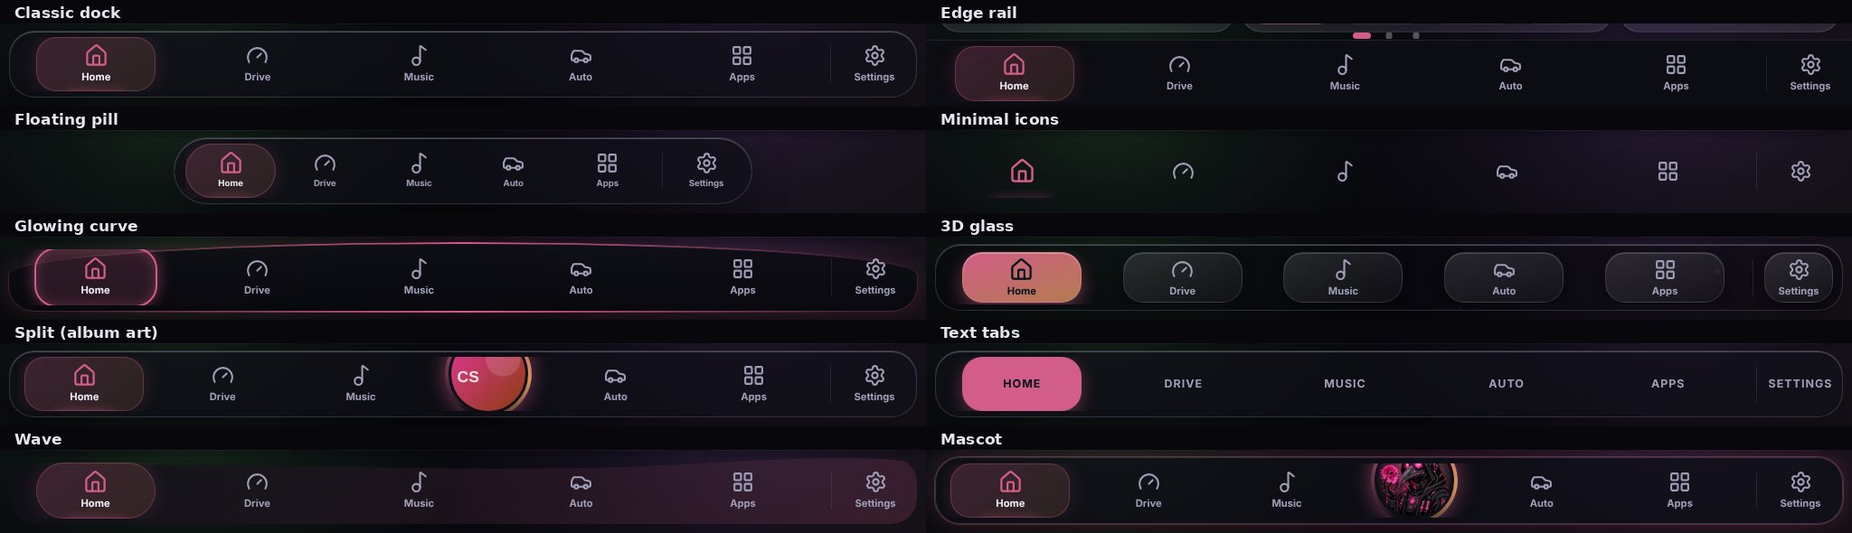
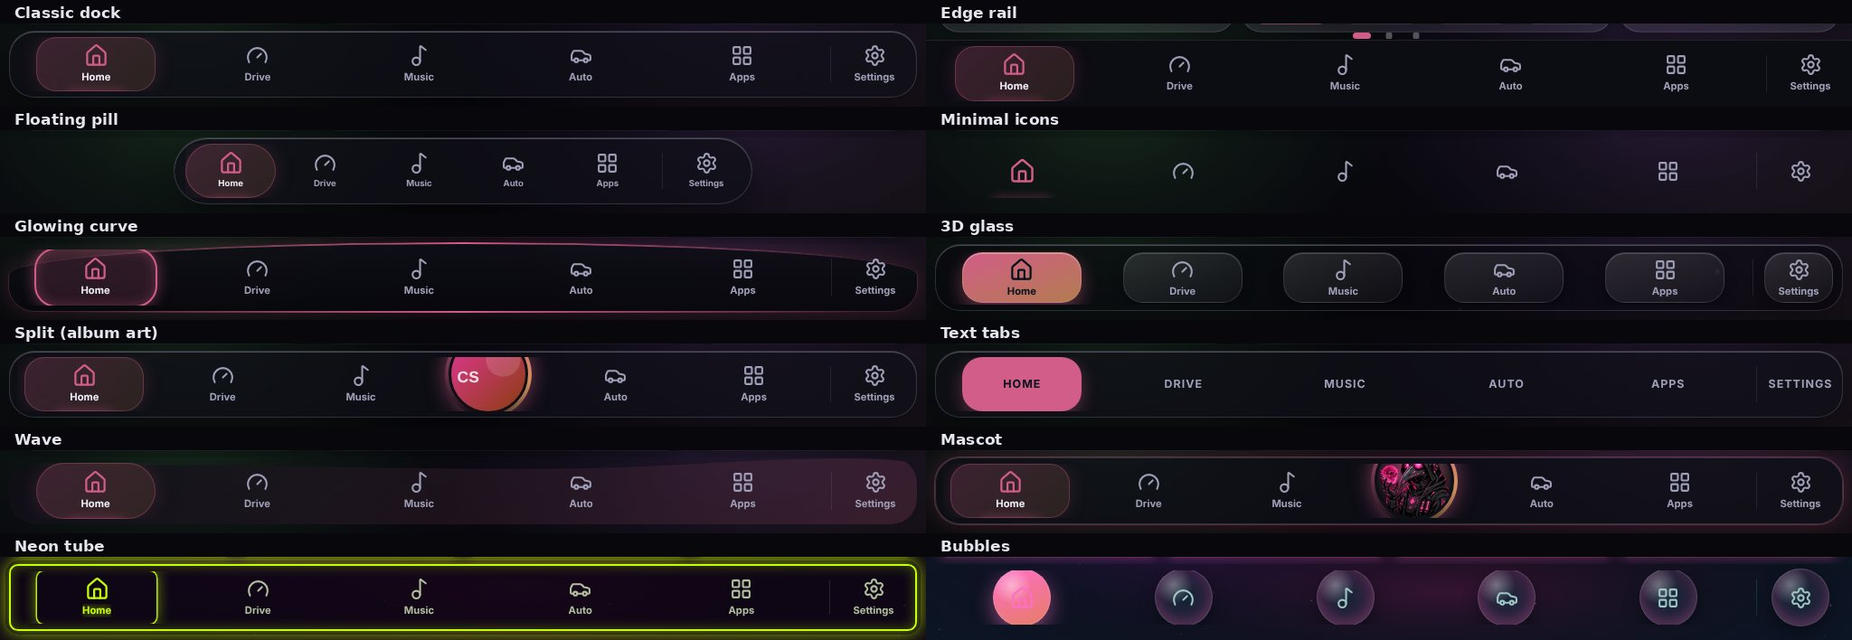
Release 3.1.0: document the new styles, animations and features
The themes, motion, navigation, mascot and Car Lab guides describe every
3.1 option by its real name, with screenshots: the six featured design
styles, the scenes, wallpapers, card styles, gauges, standby clocks,
album styles, all twelve navigation bars, My looks and the new widgets.
The README counts are brought up to date and the changelog has a 3.1.0
entry.

Two polish fixes from the screenshot pass: text tabs on a side bar no
longer cut off "SETTINGS", and the cyber-alley wallpaper's neon signs
are drawn as lit signs rather than empty outlines, which looked like a
selected button through see-through cards. The storm's lightning is
also slowed to a few soft flickers a minute.

Claude-Session: https://claude.ai/code/session_019dJ3Z7UJMVTEGixkWF7xnh

diff --git a/apps/ui/src/lib/wallpapers.ts b/apps/ui/src/lib/wallpapers.ts
@@ -169,9 +169,18 @@ function jelly(x: number, y: number, s: number, colour: string): string {
   return out;
 }
 
-/** A neon sign with a glow: a wide faint stroke under a thin bright one. */
+/**
+ * A lit neon sign: a soft glow, a filled panel and bright strokes inside that read as lettering (never an empty outline, which would
+ * look like a selected button through a see-through card).
+ */
 function neonRect(x: number, y: number, w: number, h: number, colour: string): string {
-  return `<rect x="${x}" y="${y}" width="${w}" height="${h}" rx="6" fill="none" stroke="${colour}" stroke-width="16" opacity="0.18"/>` + `<rect x="${x}" y="${y}" width="${w}" height="${h}" rx="6" fill="none" stroke="${colour}" stroke-width="4" opacity="0.95"/>`;
+  const vertical = h > w;
+  const strokes = Array.from({ length: 3 }, (_, i) =>
+    vertical
+      ? `<rect x="${r1(x + w * 0.3)}" y="${r1(y + h * (0.12 + i * 0.29))}" width="${r1(w * 0.4)}" height="${r1(h * 0.18)}" rx="3" fill="${colour}" opacity="0.95"/>`
+      : `<rect x="${r1(x + w * (0.08 + i * 0.3))}" y="${r1(y + h * 0.3)}" width="${r1(w * 0.24)}" height="${r1(h * 0.4)}" rx="3" fill="${colour}" opacity="0.95"/>`,
+  ).join('');
+  return `<rect x="${x - 14}" y="${y - 14}" width="${w + 28}" height="${h + 28}" rx="18" fill="${colour}" opacity="0.1"/>` + `<rect x="${x}" y="${y}" width="${w}" height="${h}" rx="6" fill="${colour}" opacity="0.22"/>` + strokes;
 }
 
 /** A neon perspective grid floor from the horizon at `y` down to the bottom. */

diff --git a/apps/ui/src/layers/Scene.tsx b/apps/ui/src/layers/Scene.tsx
@@ -181,7 +181,7 @@ function sceneBody(scene: DashScene, k: number): ReactNode {
           <i className="sc-cloud b" />
           <i className="sc-flash" />
           {[0, 1, 2].map((i) => (
-            <i key={i} className="sc-bolt" style={{ ['--x' as string]: `${[22, 64, 82][i]}%`, ['--delay' as string]: `${[-1, -5.5, -9][i]}s`, ['--sc' as string]: [1, 0.7, 0.85][i] }} />
+            <i key={i} className="sc-bolt" style={{ ['--x' as string]: `${[22, 64, 82][i]}%`, ['--delay' as string]: `${[-1, -10, -19][i]}s`, ['--sc' as string]: [1, 0.7, 0.85][i] }} />
           ))}
           {scatter(countFor(50, k), 201, (r) => ({ '--x': `${r() * 110 - 5}%`, '--d': `${0.6 + r() * 0.4}s`, '--delay': `${-r() * 2}s`, '--l': `${24 + r() * 36}px`, '--o': 0.18 + r() * 0.3 }), 'sc-drop')}
         </>

diff --git a/apps/ui/src/styles/shell.css b/apps/ui/src/styles/shell.css
@@ -523,6 +523,11 @@ html[data-calm='true'] .dock-medal-art {
 .dock[data-look='tabs'] .dock-btn {
   min-height: 46px;
 }
+/* On a side the bar is narrow: smaller, tighter capitals so "SETTINGS" still fits. */
+.dock[data-look='tabs']:not([data-pos='bottom']) .dock-btn > span {
+  font-size: 0.62rem;
+  letter-spacing: 0.02em;
+}
 .dock[data-look='tabs'] .dock-ind {
   background: var(--accent);
   box-shadow: 0 6px 18px rgba(var(--accent-rgb), 0.4);

diff --git a/apps/ui/src/styles/layers.css b/apps/ui/src/styles/layers.css
@@ -945,7 +945,7 @@
   transform: scale(var(--sc));
   transform-origin: 50% 0;
   opacity: 0;
-  animation: sc-bolt calc(13s * var(--tempo)) linear var(--delay) infinite;
+  animation: sc-bolt calc(27s * var(--tempo)) linear var(--delay) infinite;
 }
 @keyframes sc-bolt {
   0%,

diff --git a/docs/themes.md b/docs/themes.md
@@ -14,6 +14,7 @@ combination, not a screenshot. Change any single part afterwards and the rest st
 | Kind | Looks |
 | --- | --- |
 | **Featured** (6) | Retro Synthwave · Arctic Crystal · Phantom Pink · Liquid Chrome · Stealth AMOLED · Nature Drive |
+| **Styles** (14, new in 3.1) | Neo Brutal · Holo Foil · Toxic Lab · Neon Noir · Miami Nights · Rose Gold · Deep Dive · Paper Cut · Peach Blossom · Night Highway · Storm Chaser · Campfire · Mission Control · Arcade |
 | **Signature** (25) | RootUnit · Plague Doctor · Tokyo Drift · Replicant · Digital Rain · Retro Terminal · Vaporwave · Deep Space · Nebula · Ocean Breeze · Lava Lounge · Blueprint Lab · Moonlight · Night Vision · Track Day · Gothic · Workshop · Cobalt Code · Aurora Lake · Golden Hour · First Snow · Cherry Blossom · Café · Lavender Fields · Concrete Jungle |
 | **3D scenes** (16, from v2) | Cyber Neon · Ocean Glass · Vinyl Lounge · Aurora 3D · Night Racer · AMOLED Eclipse · Sunset GT · Focus HUD · Crystal Palace · Silver Grid · Emerald Matrix · Galaxy Purple · Arctic Ice · Ruby Glass · Copper Retro · Hyperdrive |
 | **Looks** (14, from v2) | Classic · Glass Night · Album Immersion · Ambient · Neon Drive · Sunset Cruise · Forest Retreat · Ocean Deep · Racing Red · Gold Standard · Daylight Clean · Paper Glass · Sun Glare · Night Shift |
@@ -27,6 +28,41 @@ mascot motion. v2's *Liquid Chrome* scene is now called **Silver Grid**, because
 | **Retro Synthwave** with *Player focus* | **Arctic Crystal** with *Glass hub* |
 | ![Phantom Pink with Cockpit](screenshots/home-phantom.jpg) | ![Liquid Chrome with Classic](screenshots/home-chrome.jpg) |
 | **Phantom Pink** with *Cockpit* | **Liquid Chrome** with *Classic* |
+
+### Design styles (3.1)
+
+![The Styles group in Settings](screenshots/settings-styles.jpg)
+
+Each one is built around a design style and matched end to end, like the featured looks: palette, card style, background or
+wallpaper, scene, typeface, transitions, touch feedback, gauges, standby clock, navigation bar and the mascot's motion and light.
+
+| | |
+| --- | --- |
+| ![Neo Brutal](screenshots/style-neo-brutal.jpg) | ![Holo Foil](screenshots/style-holo-foil.jpg) |
+| **Neo Brutal**: newsprint, thick lines, hard red shadows, a word clock | **Holo Foil**: holographic edges over pastel waves, bubbles for a navigation bar |
+| ![Neon Noir](screenshots/style-neon-noir.jpg) | ![Deep Dive](screenshots/style-deep-dive.jpg) |
+| **Neon Noir**: a rainy alley, lit glass, an LED race dash and a neon-tube bar | **Deep Dive**: the deep sea, jellyfish light and a HUD gauge |
+| ![Toxic Lab](screenshots/style-toxic-lab.jpg) | ![Miami Nights](screenshots/style-miami-nights.jpg) |
+| **Toxic Lab**: a green-screen terminal, a radar sweep and a binary clock | **Miami Nights**: palms, a pink sunset and records in their sleeves |
+
+**Surprise me** (top of the Looks section) puts together a random look that still hangs together: it starts from a palette and that
+palette's own accent, then keeps the pairings a designer would (a terminal panel gets a mono face and square corners, clay is round,
+brutalist cards press in, light palettes skip the neon tube). Tap it again for another; save one you like under **My looks**.
+
+## My looks
+
+![My looks, with a share code open](screenshots/my-looks.jpg)
+
+Under **Settings → Looks & layouts → My looks**:
+
+* **Save this look** keeps everything about the look on screen under a name (up to 16 looks, names up to 24 characters).
+* **Use** wears a saved look again in one tap. The **My looks** widget does the same from Home.
+* **Share** shows the look as a code (`RU1.…`) with a **Copy** button. Paste it into **Add from code** on another head unit, or keep
+  it in a note. A code holds only the look: never units, music, sign-ins or anything personal. A damaged or made-up code can only ever
+  give a valid look, or nothing.
+* Naming and adding wait until you are parked; using a saved look does not.
+
+Saved looks are part of the settings, so they are in every backup.
 
 ## Home layouts
 
@@ -48,24 +84,39 @@ it, and placed behind the widgets in the space left for it otherwise. After that
 | Section | What you can choose |
 | --- | --- |
 | **Looks & layouts** | The looks and layouts above; the accent colour (8 swatches, or any colour with *Hue* and *Lightness*); *colour the interface from the album art*; **Reset the look** |
-| **Colours** | 36 palettes (below); a day palette and a night palette, switched by the clock or by the real sunrise and sunset |
-| **Cards & depth** | Card style: Solid · Glass · Outline · Neon · Clay · HUD · Chrome · Aero. Depth: Flat · Soft · Deep · Crystal · Floating · Bevel · Layered. Glass finish: Clear · Frosted · Prismatic · Iridescent · Smoked · Liquid, and how see-through it is. Corners: Sharp · Soft · Round |
-| **Background** | None · Album blur · Album cover · Ambient · Aurora · Gradient · Grid · Carbon · Wallpaper · Mesh · Stars · Hexagons · Topographic · Circuit · Dots · Waves · Synth sun · Bokeh · Scanlines; 20 built-in wallpapers and your own pictures; dim and blur; an animated scene behind the widgets (below); real weather in the scene |
-| **3D effects** | Effects level; motion intensity (Off · Calm · Lively · Cinematic); album glow, background motion and particle switches; 15 artwork styles; 8 page transitions; touch feedback (None · Ripple · Glow · Pop). See [3d-motion.md](3d-motion.md) |
-| **Type & gauges** | Typeface: Inter · System · Grotesk · Outfit · Rounded · Tech · Future · Mono; text size; gauges: Arc · Needle · Digital · Ring · Bar · Sport; standby screen: Clock · Analog · Flip · Mascot · Orbit · Minimal |
+| **Colours** | 44 palettes (below); a day palette and a night palette, switched by the clock or by the real sunrise and sunset |
+| **Cards & depth** | Card style: Solid · Glass · Outline · Neon · Clay · HUD · Chrome · Aero · Brutalist · Holographic · Terminal · Lumen. Depth: Flat · Soft · Deep · Crystal · Floating · Bevel · Layered. Glass finish: Clear · Frosted · Prismatic · Iridescent · Smoked · Liquid, and how see-through it is. Corners: Sharp · Soft · Round |
+| **Background** | None · Album blur · Album cover · Ambient · Aurora · Gradient · Grid · Carbon · Wallpaper · Mesh · Stars · Hexagons · Topographic · Circuit · Dots · Waves · Synth sun · Bokeh · Scanlines · Halftone · Low poly · Sun rays · Plasma; 26 built-in wallpapers and your own pictures; dim and blur; an animated scene behind the widgets (below); real weather in the scene |
+| **3D effects** | Effects level; motion intensity (Off · Calm · Lively · Cinematic); album glow, background motion and particle switches; 18 artwork styles; 12 page transitions; touch feedback (None · Ripple · Glow · Pop · Sparkle · Ring · 3D press). See [3d-motion.md](3d-motion.md) |
+| **Type & gauges** | Typeface: Inter · System · Grotesk · Outfit · Rounded · Tech · Future · Mono; text size; gauges: Arc · Needle · Digital · Ring · Bar · Sport · LED · HUD; standby screen: Clock · Analog · Flip · Mascot · Orbit · Minimal · Nixie · Word clock · Binary |
 | **Music reactive** | Off · Glow · Wash · Rings · Spectrum · Edges · Halo · Burst · Wave · Radial, coloured by Accent · Album · Rainbow · Custom · Heat. See [music-reactive.md](music-reactive.md) |
-| **Mascot** | Original · Neon cut-out · 3D armour; 11 motions; 5 auras. See [mascot.md](mascot.md) |
+| **Mascot** | Original · Neon cut-out · 3D armour; 13 motions; 7 auras. See [mascot.md](mascot.md) |
 | **Boot screen** | The start-up screen. See [mascot-boot.md](mascot-boot.md) |
 
-The navigation bar's ten styles and three positions are under **Settings → Navigation → Edit navigation… → Look**
+The navigation bar's twelve styles and three positions are under **Settings → Navigation → Edit navigation… → Look**
 ([navigation.md](navigation.md)).
 
 **Animated scenes:** Off · Glow · Orbits · Grid · Particles · Warp · Waves · Rain · Fireflies · Matrix · Nebula · Snow · Lava · Rings ·
-Comets · Bubbles · Tunnel · Synth sun · Circuit.
+Comets · Bubbles · Tunnel · Synth sun · Circuit · Highway · Sakura · Embers · Radar · Skyline · Storm.
+
+![The six scenes new in 3.1](screenshots/scenes-31.jpg)
 
 **Built-in wallpapers:** Night road · City lights · Mountains · Dunes · Waves · Neon city · Galaxy · Pine forest · Coast road · Canyon ·
-Tunnel · Race track · Aurora lake · Synthwave sunset · Ice peaks · Liquid chrome · Phantom smoke · Eclipse · Vinyl lounge · Sunset GT.
+Tunnel · Race track · Aurora lake · Synthwave sunset · Ice peaks · Liquid chrome · Phantom smoke · Eclipse · Vinyl lounge · Sunset GT ·
+Cherry road · Cyber alley · Miami beach · Deep sea · Holo waves · Paper hills.
+
+![The six wallpapers new in 3.1](screenshots/wallpapers-31.jpg)
+
+![The four card styles new in 3.1, each on one of the new backgrounds](screenshots/cards-31.jpg)
 They are drawn as SVG in the app, so they cost no download and stay sharp on any screen.
+
+**Gauges and standby clocks.** The **LED** gauge is a race dash: shift lights going green, amber and red over a big number on an
+LCD panel. **HUD** is a sci-fi readout of fine ticks and brackets. The standby screen can be **Nixie** tubes, a **Word clock** (the time
+to the last five minutes, spelled out on a grid of letters) or a **Binary** clock (each digit as lit dots, with the plain time under it).
+
+![The LED and HUD gauges](screenshots/gauges-31.jpg)
+
+![Nixie, word and binary standby clocks](screenshots/standby-31.jpg)
 
 **The accent is always readable.** A colour that would be too faint against the palette in force (under 3:1) is lightened or
 darkened just enough; the sample under the sliders shows the colour in use, its contrast, and says when it was adjusted.
@@ -75,9 +126,12 @@ navigation-style setting back as it came. Units, music, text size, your navigati
 
 ## Palettes
 
-| Dark (26) | | Light (8) | High visibility (2) |
+| Dark (32) | | Light (10) | High visibility (2) |
 | --- | --- | --- | --- |
-| Obsidian · Midnight · Carbon · AMOLED · Ember · Ocean · Forest · Aurora · Synthwave · Nord · Mocha · Crimson · Royal | Neon Plague · Tokyo Night · Vampire · Matrix · Night City · Amber CRT · Night Red · Sunset · Cobalt · Gunmetal · Lunar · Velvet · Blueprint | Daylight · Sand · Mint · Sakura · Lavender · Arctic · Latte · Concrete | High contrast · Sunlit |
+| Obsidian · Midnight · Carbon · AMOLED · Ember · Ocean · Forest · Aurora · Synthwave · Nord · Mocha · Crimson · Royal · Neon Plague · Tokyo Night · Vampire | Matrix · Night City · Amber CRT · Night Red · Sunset · Cobalt · Gunmetal · Lunar · Velvet · Blueprint · **Neon Noir** · **Miami** · **Toxic** · **Rose Gold** · **Abyss** · **Holo** | Daylight · Sand · Mint · Sakura · Lavender · Arctic · Latte · Concrete · **Paper** · **Peach** | High contrast · Sunlit |
+
+New in 3.1 in bold. Every palette passes the same tests as the rest: text contrast on every surface, readable over the worst-case
+picture, and different enough from every other palette that none is a recolour.
 
 Day and night switching changes the **palette** only; your card style, background and everything else stay.
 
@@ -119,14 +173,16 @@ The look is built to be cheap on a Pi 5:
 
 ## For developers
 
-* Palettes live in `apps/ui/src/lib/themes/` (`core.ts`, `groupA.ts` … `groupE.ts`). Each is a full token set (`Palette` in
+* Palettes live in `apps/ui/src/lib/themes/` (`core.ts`, `groupA.ts` … `groupF.ts`). Each is a full token set (`Palette` in
   `types.ts`) applied as CSS variables on `<html>` by `applyAppearance()` (`apply.ts`), which also sets the `data-*` attributes the
   styles key on (`data-surface`, `data-depth`, `data-glass`, `data-font` and so on).
 * The tests check **every** palette: all tokens present, WCAG contrast of text, dim, accent and status colours, glass and card fills
   over the worst-case picture, and that no palette is a recolour of another. To add one: add its id to `THEME_IDS`
   (`packages/shared/src/appearance.ts`), write it with `definePalette()`, and run `npm test -w @headunit/ui`.
 * Looks are in `lib/themes/presets.ts`, layouts in `lib/layoutPresets.ts`, and every option's name and one-line description in
-  `lib/appearanceInfo.ts`.
+  `lib/appearanceInfo.ts`. A test fails if an option added in 3.1 is not used by at least one look.
+* What a look is (`LOOK_KEYS`), how a saved look is checked (`lookFromUntrusted`, `sanitizeSavedLooks`) and the limits are in
+  `packages/shared/src/looks.ts` and `validate.ts`; share codes in `lib/lookCode.ts`; Surprise me in `lib/surprise.ts`.
 * `styles/policy.test.ts` guards the Pi's performance across all the CSS: keyframes may only animate transform and opacity, nothing
   transitions layout, `filter` is confined to the background layers, `backdrop-filter` only through `--surface-blur`, every
   `var(--x)` is defined, every animation names a keyframe that exists, and decorative motion (`.fx`) stops while driving.

diff --git a/README.md b/README.md
@@ -18,19 +18,28 @@ Pick a whole look in one tap, then change any single part of it. A look sets eve
 wallpaper, card style, depth, glass, motion, typeface, page transitions, gauges, the navigation bar's style and the mascot's motion
 and light.
 
-* **61 ready-made looks**: 6 featured (Retro Synthwave, Arctic Crystal, Phantom Pink, Liquid Chrome, Stealth AMOLED, Nature Drive),
-  25 signature themes, v2's 16 3D scenes and v2's 14 looks.
+* **75 ready-made looks**: 6 featured (Retro Synthwave, Arctic Crystal, Phantom Pink, Liquid Chrome, Stealth AMOLED, Nature Drive),
+  14 design styles (Neo Brutal, Holo Foil, Neon Noir, Toxic Lab, Miami Nights, Deep Dive…), 25 signature themes, v2's 16 3D scenes
+  and v2's 14 looks.
+* **My looks**: save any look under a name, wear it again in one tap, share it as a code, or let **Surprise me** put one together.
 * **4 Home layouts**: Cockpit, Player focus, Glass hub and Classic. Every widget can still be moved, resized or removed.
-* **36 palettes** with day/night switching by the clock or the real sunrise and sunset, and **any accent colour**, kept readable.
-* **8 card styles, 7 depths, 6 glass finishes**, 19 backgrounds, **20 built-in wallpapers** plus your own, and **18 animated scenes**.
-* **15 album-art styles** (spinning vinyl, CD, cassette, hologram, Polaroid…), **7 page transitions**, 3 touch effects.
-* **8 typefaces, 6 gauge styles, 6 standby screens.**
-* **10 navigation bar styles** on the left, the right or along the bottom, with an album or mascot medallion if you like.
+* **44 palettes** with day/night switching by the clock or the real sunrise and sunset, and **any accent colour**, kept readable.
+* **12 card styles** (from glass and chrome to brutalist, holographic and green-screen terminal), **7 depths, 6 glass finishes**,
+  23 backgrounds, **26 built-in wallpapers** plus your own, and **24 animated scenes** (a highway at night, sakura, a radar, a storm…).
+* **18 album-art styles** (spinning vinyl, CD, cassette, a turning cube, a record sliding out of its sleeve…), **11 page
+  transitions**, 6 touch effects.
+* **8 typefaces, 8 gauge styles** (including an LED race dash and a HUD), **9 standby screens** (Nixie tubes, a word clock, binary…).
+* **12 navigation bar styles** on the left, the right or along the bottom, with an album or mascot medallion if you like.
 * **9 music-reactive light styles**, driven by the real sound (never a made-up beat).
-* **The mascot**: 3 artworks, 10 motions, 4 auras, anywhere on the screen.
+* **The mascot**: 3 artworks, 12 motions, 6 auras, anywhere on the screen.
 * **Boot Studio**: the start-up screen, with 10 themes, 9 backgrounds, 8 mascot motions, 9 loaders, 7 letterings and 6 hand-overs.
 
-![The ten navigation styles](docs/screenshots/dock-styles.jpg)
+| | |
+| --- | --- |
+| ![Neon Noir](docs/screenshots/style-neon-noir.jpg) | ![Holo Foil](docs/screenshots/style-holo-foil.jpg) |
+| ![Neo Brutal](docs/screenshots/style-neo-brutal.jpg) | ![Deep Dive](docs/screenshots/style-deep-dive.jpg) |
+
+![The twelve navigation styles](docs/screenshots/dock-styles.jpg)
 
 Guides: [themes and looks](docs/themes.md) · [3D effects and motion](docs/3d-motion.md) · [navigation](docs/navigation.md) ·
 [mascot](docs/mascot.md) · [boot screen](docs/mascot-boot.md) · [music-reactive light](docs/music-reactive.md)
@@ -51,9 +60,15 @@ phones, Wi-Fi, and wired Android Auto through an optional receiver ([android-aut
 | Group | Apps |
 | --- | --- |
 | Car | Trips · Garage · System · Find my car · Performance · Phones · Vehicle |
-| Car Lab | GPS · Lights (WLED) · Dashcam · FM transmitter ([car-lab.md](docs/car-lab.md)) |
+| Car Lab | GPS · Lights (WLED, which can match the screen's colour) · Dashcam · FM transmitter ([car-lab.md](docs/car-lab.md)) |
 | Everyday | Scenes · Quick actions · Notes · Weather · Timers · Sleep sounds · Tools (converter, tip split, world clocks) |
 | Play | Arcade (only while parked) |
+
+**Home widgets** (29): speed, revs and any gauge, the music, radio presets, the FM tuner, the clock, weather, trips, the garage,
+timers, scenes, quick actions, phones, a compass, a calendar, your saved looks, a sound meter of the real music level, and more. Drag,
+resize and arrange them on as many pages as you like.
+
+![Calendar, My looks and Sound meter widgets](docs/screenshots/widgets-31.jpg)
 
 **Little things that matter in a car.** A trip survives the power being cut with the ignition. Timers live on the server and keep
 running. Typing and parked-only apps lock above 8 km/h ("I'm a passenger" lifts it), and decorative animation stops while you drive.

diff --git a/docs/3d-motion.md b/docs/3d-motion.md
@@ -14,13 +14,14 @@ process, so it runs on the Pi 5's own GPU without anything else installed. None 
 | **Album glow** | Settings → 3D effects | The coloured light behind the cover, on or off |
 | **Background motion** | Settings → 3D effects | Freezes the wallpaper and scene when off, keeping everything else |
 | **Particle effects** | Settings → 3D effects | A quick switch for the *Particles* scene |
-| **Artwork style** | Settings → 3D effects, or the chips under the player on Now Playing | 15 styles (below) |
-| **Page transition** | Settings → 3D effects | Instant · Fade · Slide · Rise · Zoom · Flip · Depth · Swing |
-| **When you touch** | Settings → 3D effects | None · Ripple · Glow · Pop |
+| **Artwork style** | Settings → 3D effects, or the chips under the player on Now Playing | 18 styles (below) |
+| **Page transition** | Settings → 3D effects | Instant · Fade · Slide · Rise · Zoom · Flip · Depth · Swing · Cube · Drop · Tilt · Portal |
+| **When you touch** | Settings → 3D effects | None · Ripple · Glow · Pop · Sparkle · Ring · 3D press |
 | **Depth** | Settings → Cards & depth | Flat · Soft · Deep · Crystal · Floating · Bevel · Layered |
 | **Glass finish** | Settings → Cards & depth | Clear · Frosted · Prismatic · Iridescent · Smoked · Liquid |
-| **Animated scene** | Settings → Background | 19 scenes behind the Home widgets, and how busy they are |
-| **Navigation style** | Settings → Navigation → Edit navigation… → Look | 10 styles; the highlight slides between buttons and the album or mascot medallion turns |
+| **Animated scene** | Settings → Background | 24 scenes behind the Home widgets, and how busy they are |
+| **Navigation style** | Settings → Navigation → Edit navigation… → Look | 12 styles; the highlight slides between buttons, the album or mascot medallion turns, the neon tube hums and the bubbles bob |
+| **Mascot** | Settings → Mascot | 13 motions (Bounce and Drift are new) and 7 auras (Rings and Aurora are new) |
 
 Every featured look, signature look and 3D scene sets these together so they match (see [themes.md](themes.md)); any of them can be
 changed on its own afterwards.
@@ -38,7 +39,19 @@ Used on Home, Now Playing and the Music players. The cover only moves while some
 | Glass 3D | the cover behind glass | Breathe | swells with the music |
 | Orbit | rings circle the cover | Polaroid | an instant photo |
 | Prism | rainbow edges | Glitch | digital tears |
-| | | Flip | turns over now and then |
+| Cube | the cover on a cube that turns a quarter at a time | Flip | turns over now and then |
+| Mirror floor | stands and bobs over its own reflection | Sleeve | the record slides out of its sleeve and turns |
+
+![Cube, Mirror floor and Sleeve](screenshots/album-31.jpg)
+
+**New transitions and touches in 3.1:** *Cube* turns the next screen in like a cube's face, *Drop* drops it in with two small bounces,
+*Tilt* tips it forward into place and *Portal* spins it out of a point of light. *Sparkle* throws sparks from your finger, *Ring* sends
+a ring of light out past the button, and *3D press* sinks the button in like a real key.
+
+**New scenes in 3.1:** *Highway* (road lines and street lamps rushing past), *Sakura* (petals tumbling), *Embers* (sparks rising from
+a glow), *Radar* (a sweeping scope with blips), *Skyline* (a city at night with windows going on and off, a beacon and a plane) and
+*Storm* (rain, cloud and distant lightning: a soft flicker a few times a minute, far below anything that could trouble
+light-sensitive eyes, and like every scene it stops while you drive).
 
 ![Now Playing with the spinning vinyl](screenshots/nowplaying.jpg)
 

diff --git a/docs/navigation.md b/docs/navigation.md
@@ -1,7 +1,7 @@
 # Customising the navigation
 
 The navigation bar is yours to arrange: which buttons, in what order, what they are called, what they look like, whether it sits on
-the left, the right or along the bottom, which of ten styles it has, and how big it is. The same goes for the Quick Panel, the Apps screen and the order of
+the left, the right or along the bottom, which of twelve styles it has, and how big it is. The same goes for the Quick Panel, the Apps screen and the order of
 the dashboard pages.
 
 ![The editor's Look tab, beside the live navigation](screenshots/nav-editor.jpg)
@@ -40,12 +40,12 @@ and that is deliberate: it is the way back to everything else.
 | | |
 | --- | --- |
 | **Where** | left, bottom or right. Along the bottom the bar runs across the screen and the page sits above it |
-| **Style** | ten styles, each shown live on your own buttons (below) |
+| **Style** | twelve styles, each shown live on your own buttons (below) |
 | **Size** | small, medium, large (the buttons are never smaller than 44 px) |
 | **Names under the pictures** | always, current page only, never |
 | **Ready-made** | *Default*; *Minimal* (Home, Music, Auto, names on the current page only); *Driver* (Drive, Music, Auto, large, names on the current page only). Each replaces the whole arrangement, so use *Revert* if it was not what you wanted |
 
-![The ten styles, along the bottom](screenshots/dock-styles.jpg)
+![The twelve styles, along the bottom](screenshots/dock-styles.jpg)
 
 | Style | |
 | --- | --- |
@@ -59,6 +59,8 @@ and that is deliberate: it is the way back to everything else.
 | Text tabs | names only, in tabs |
 | Wave | a bar shaped like a wave |
 | Mascot | your mascot in the middle |
+| Neon tube | a glowing neon tube round the bar, humming now and then |
+| Bubbles | every button its own floating bubble |
 
 The looks in Settings → Looks & layouts choose a matching style; you can change it here afterwards.
 

diff --git a/docs/changelog.md b/docs/changelog.md
@@ -1,5 +1,27 @@
 # Changelog
 
+## 3.1.0: more styles, animations and your own looks
+
+**Themes and styles.** Eight palettes (Neon Noir, Miami, Toxic, Rose Gold, Abyss, Holo, Paper, Peach; 44 in all). Four card styles:
+Brutalist, Holographic, Terminal, Lumen. Four backgrounds: Halftone, Low poly, Sun rays, Plasma. Six wallpapers: Cherry road, Cyber
+alley, Miami beach, Deep sea, Holo waves, Paper hills. A new **Styles** group of 14 looks built around them, each matched end to end.
+
+**Animations.** Six scenes (Highway, Sakura, Embers, Radar, Skyline, Storm), four page transitions (Cube, Drop, Tilt, Portal), three
+touch effects (Sparkle, Ring, 3D press), three album-art styles (Cube, Mirror floor, Sleeve), two navigation bars (Neon tube, Bubbles),
+two mascot motions (Bounce, Drift) and auras (Rings, Aurora). All of them only move transform and opacity, and rest while driving.
+
+**Gauges and clocks.** An LED race dash and a HUD gauge; Nixie, word-clock and binary standby screens.
+
+**Your own looks.** *My looks* saves the look on screen under a name, wears it again in one tap and shares it as a code another head
+unit can add. *Surprise me* puts together a random look that still matches. *Reset the look* is unchanged.
+
+**More.** The WLED lights can match the screen's colour. Three widgets: Calendar, My looks, and a Sound meter that shows the real
+music level (and says so when there is no meter, rather than inventing one). The garage service form has its Note field back.
+
+**Checked by tests:** every new palette against the contrast and distinctness rules; every new option used by at least one look; saved
+looks and share codes against damaged and hostile input; the word and binary clocks; and the CSS rules, now including that no
+animation name is defined twice.
+
 ## 3.0.0 — RootUnit
 
 A new interface and a much bigger choice of looks, with every v2 feature kept. Guides: [themes.md](themes.md),

diff --git a/docs/car-lab.md b/docs/car-lab.md
@@ -32,6 +32,11 @@ Recommended low-cost setup: original ESP32 WROOM board (not ESP8266), WLED 0.15+
 
 Connect ESP32 to same *private* car Wi-Fi as Pi. In **Apps → Lights** enter its IPv4 address (e.g. `192.168.4.40`). The server refuses internet IPs, DNS hostnames and loopback connections for device control. Brightness, colour, mode and effects apply as you change them. The address is checked on the screen as well as the server, and the server is the one that refuses.
 
+**Match the screen** (3.1, in the Colour panel of **Apps → Lights**): the lights take the colour the interface is drawn in, and the
+album's colour while the accent follows the album art. It only works in the plain-colour mode (an effect or a music mode you chose is
+left alone), waits until the colour has settled so a run of track changes sends one colour, and never sends the colour the lights
+already have.
+
 For Pi audio monitor mode, the head-unit uses `parec --device=@DEFAULT_MONITOR@` and streams WLED DRGB LED packets UDP 21324. This is experimental: configure PipeWire/PulseAudio default sink monitoring first, and only enable when audio is playing through that sink. Native HDMI/ALSA applications bypassing PipeWire are not captured. Prefer ESP microphone/line-in to react to everything.
 
 Install LED power with a fuse, proper 12V automotive transient protection, and an appropriate 5V regulator. Never pull LED strip current from the Pi GPIO header. Keep effects dim at night.

diff --git a/docs/mascot.md b/docs/mascot.md
@@ -9,8 +9,8 @@ style and music-reactive overlay.
 | --- | --- |
 | **Show the mascot** | on or off |
 | **Artwork** | Original (dark backdrop) · Neon cut-out · 3D armour (both cut-outs are truly transparent) |
-| **Movement** | Still · Float · Hologram · 3D tilt · Breathe · Glitch · Orbit · Scan · Peek · Sway · Pulse |
-| **Light** | None · Glow · Halo · Sparks · Smoke, and how strong the glow is |
+| **Movement** | Still · Float · Hologram · 3D tilt · Breathe · Glitch · Orbit · Scan · Peek · Sway · Pulse · Bounce · Drift |
+| **Light** | None · Glow · Halo · Sparks · Smoke · Rings · Aurora, and how strong the glow is |
 | **Pulse with the music** | follows the music-reactive meter when it is on; with no meter it stays still, never an invented beat |
 | **Where it stands** | Home only or every page; behind the widgets or in front; across, up and down, size, visibility; mirror |
 | **Reset the mascot** | two taps back to the defaults |
